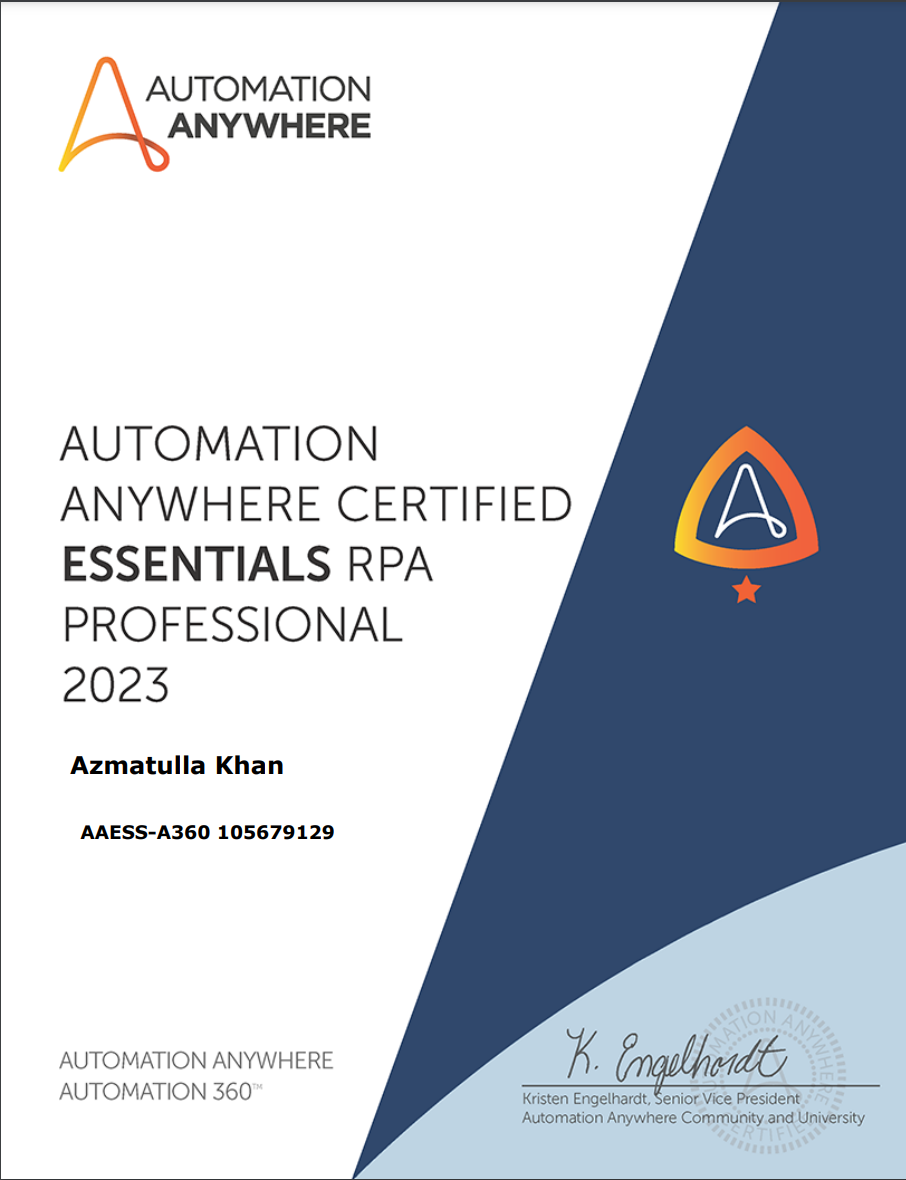
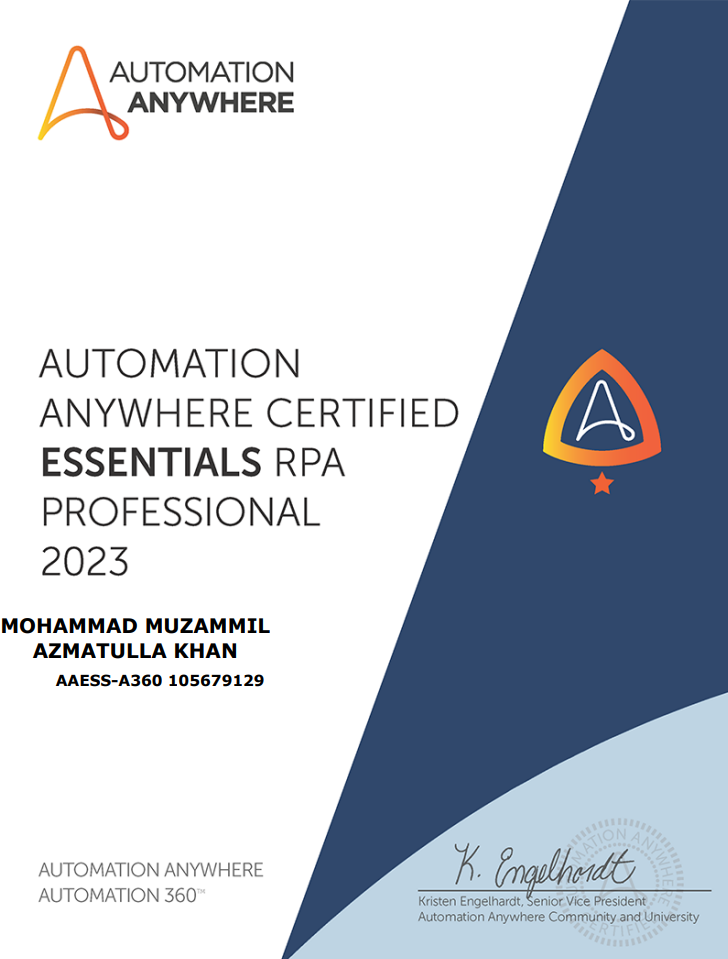
Successfully changed my name in RPA certificate and Inserted it into Portfolio

diff --git a/src/pages/main.js b/src/pages/main.js
@@ -256,7 +256,6 @@ export const Main=()=>{
             <div className='project-animation-left' id='project-animation-one' data-aos='fade-left' data-aos-offset='300' onClick={handleProjectOneClick} style={{marginTop:"0px"}}>
               <p  style={{cursor:"pointer", fontSize:"22px"}} id='project-animation-idHolder'>1.Movie TV Show Recommendation</p>
               <img className='animation-each-image-left' src={require('../images/animation_folder/animation-preview1.png')} alt='img'/>
-              {/* <div className='animation-each-image-left-white'>Used Technnologies:- Python, Django, PSQL, HTML, CSS and Javascript</div> */}
             </div>
             <div className='hidden' id='main_background_two'>
               <Project1 />
